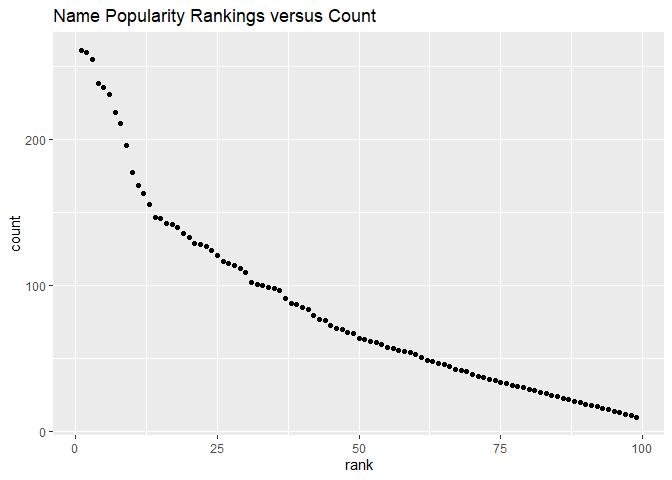
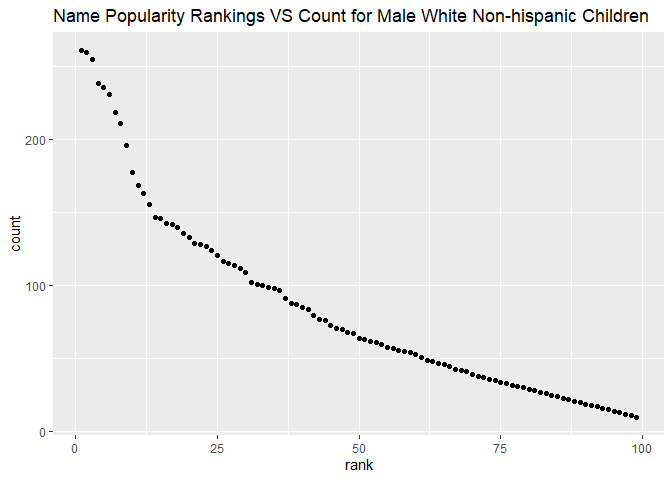
deleted "view"

Changed region(s): [[0.4062, 0.0, 0.9688, 0.0625]]

diff --git a/p8105_hw2_ew2717.md b/p8105_hw2_ew2717.md
@@ -308,14 +308,10 @@ male_rank_data
     ## 10          2016 Male   White Non Hispanic Henry               196     9
     ## # ... with 354 more rows
 
-``` r
-view(male_rank_data)
-```
-
 \#\#\#Creating Scatterplot
 
 ``` r
-male_rank_scatterplot = ggplot(male_rank_data, aes(x = rank, y = count)) + geom_point() + ggtitle("Name Popularity Rankings versus Count")
+male_rank_scatterplot = ggplot(male_rank_data, aes(x = rank, y = count)) + geom_point() + ggtitle("Name Popularity Rankings VS Count for Male White Non-hispanic Children")
 
 male_rank_scatterplot
 ```
